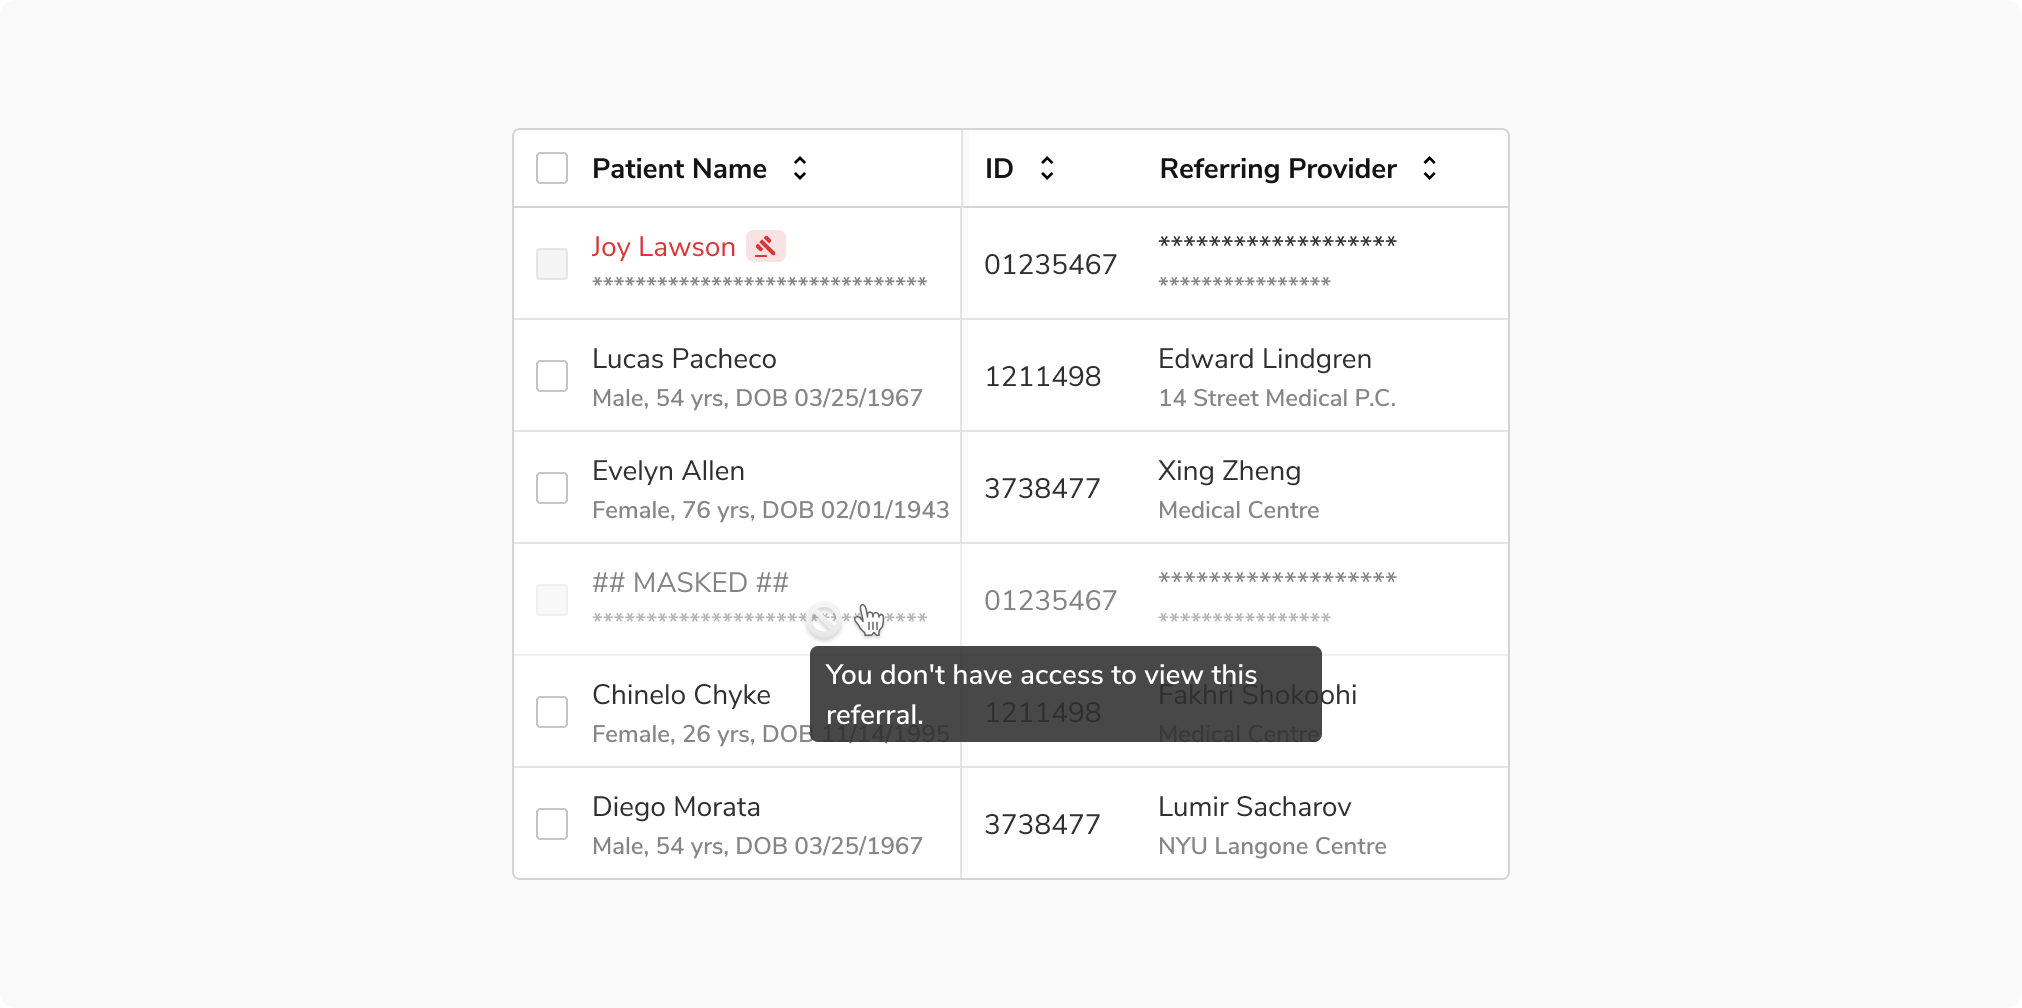
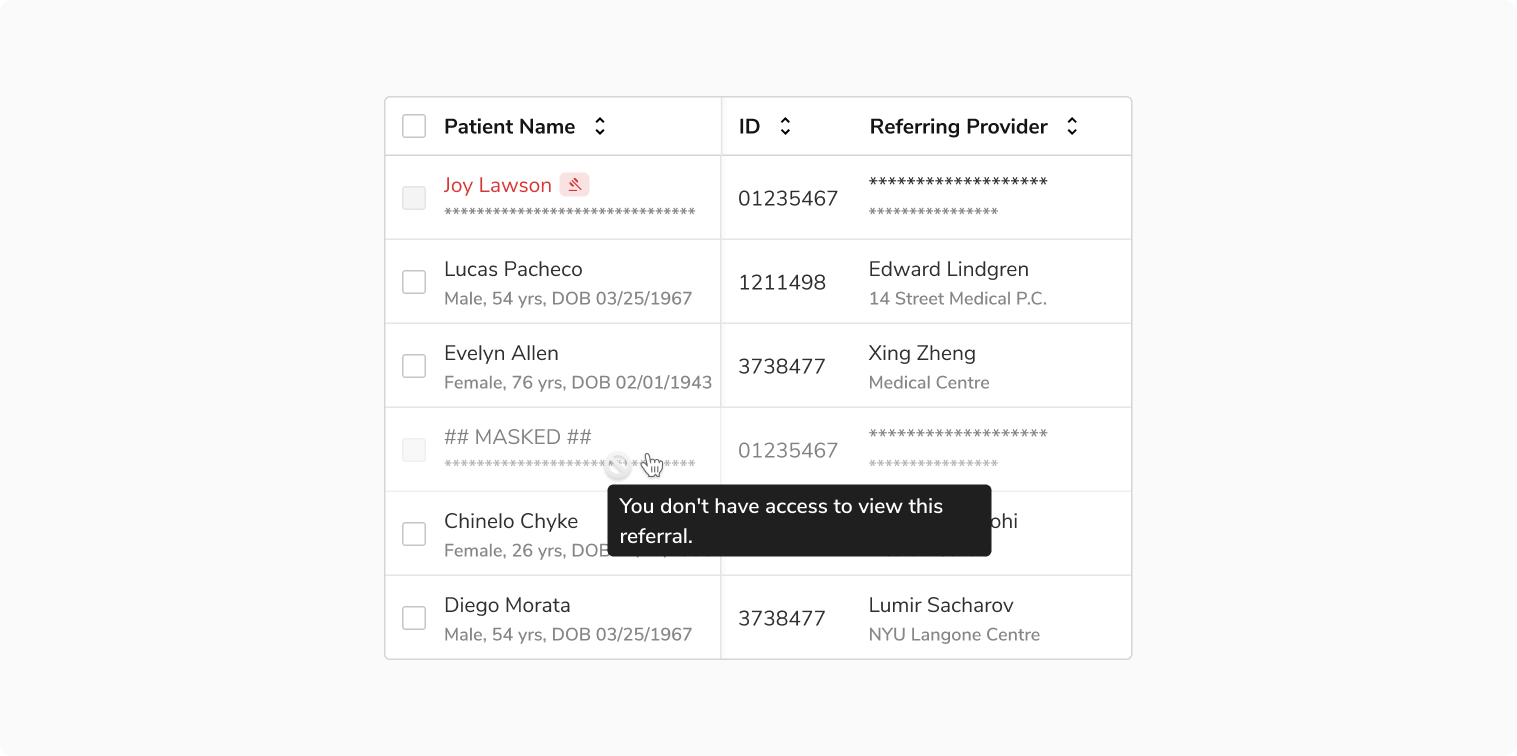
feat(tooltip): update opacity of tooltip and images in docs site

diff --git a/css/src/components/tooltip.css b/css/src/components/tooltip.css
@@ -3,7 +3,7 @@
   padding: var(--spacing-m) var(--spacing);
   border-radius: var(--spacing-m);
   z-index: 500;
-  background: color-mod(var(--inverse) a(0.88));
+  background: var(--inverse);
   overflow: hidden;
   box-sizing: border-box;
   transition: opacity 120ms;
